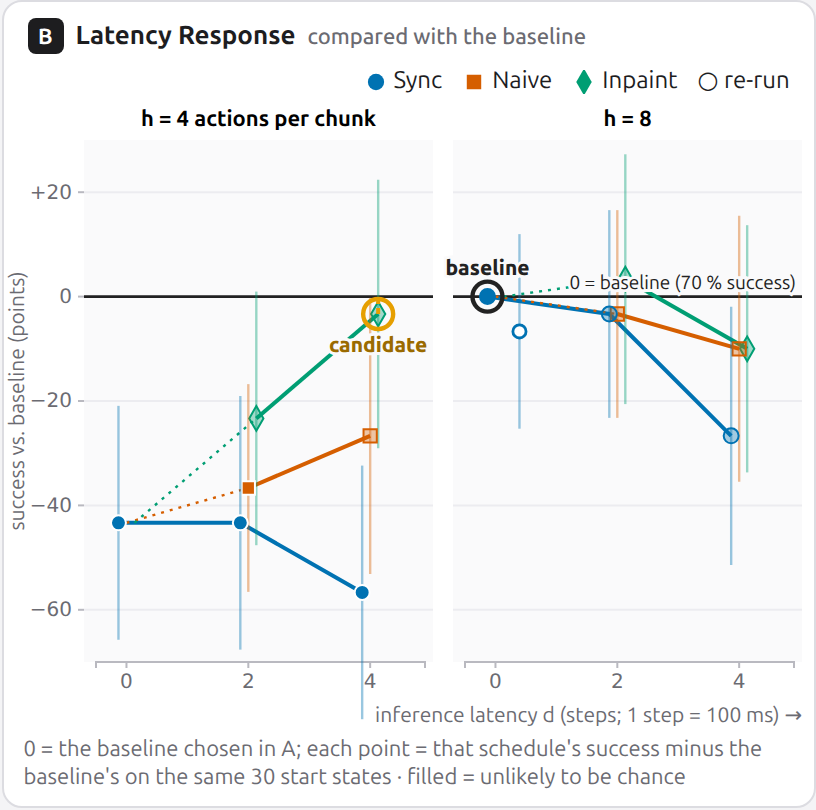
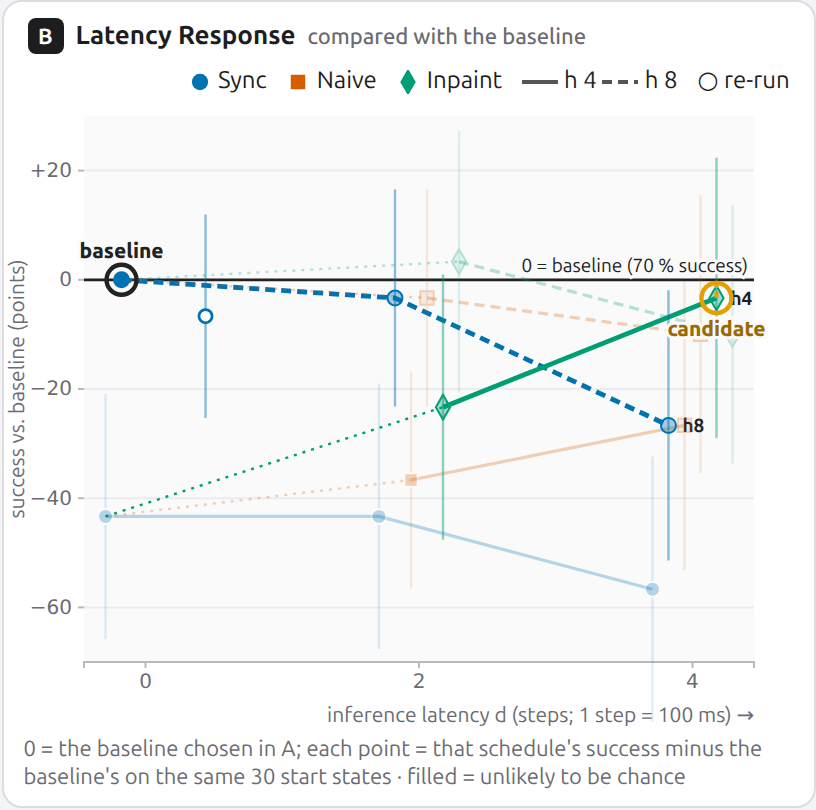
B: one plot for both horizons (solid = h 4, dashed = h 8) so baseline and candidate are always in the same frame; the series holding the pair stay strong, the others step back

diff --git a/src/js/views/response.js b/src/js/views/response.js
@@ -1,6 +1,6 @@
-// View B: latency response relative to the baseline chosen in A. One small multiple per execution
-// horizon h; within a panel, x = inference latency d (true spacing, 100 ms per step), one line per
-// strategy. y = each schedule's success minus the baseline's on the same start states (paired), so
+// View B: latency response relative to the baseline chosen in A, in one plot so that baseline and
+// candidate are always in the same frame: x = inference latency d (true spacing, 100 ms per step),
+// one line per strategy × horizon (hue + shape = strategy, solid = h 4, dashed = h 8). y = each schedule's success minus the baseline's on the same start states (paired), so
 // 0 is the baseline and choosing another baseline in A moves the zero line and re-tests every point.
 // The scale spans exactly 0–100 % success, so the curve shapes read as absolute latency response.
 // Whiskers = 95 % interval of the paired difference; filled = unlikely to be chance (exact McNemar).
@@ -10,7 +10,6 @@ import { COLOR, STRAT_COLOR, STRAT_SYMBOL, fmtMetric, showTip, hideTip, size } f
 import { flips } from "./pairs.js";
 
 let root, svg, noteSel, hoverStrat = null;
-const DODGE = { sync: -4, naive: 0, inpaint: 4 };
 // what each strategy does while the policy computes the next chunk (legend hover)
 const STRAT_DEF = {
   sync: "waits (robot idle) until the new chunk is ready",
@@ -29,6 +28,8 @@ export function initResponse() {
       .attr("transform", "translate(6,6)").attr("d", d3.symbol(STRAT_SYMBOL[s], 52)()).attr("fill", STRAT_COLOR[s]);
     it.append("span").text({ sync: "Sync", naive: "Naive", inpaint: "Inpaint" }[s]);
   }
+  lg.append("span").attr("class", "li").attr("title", "execution horizon h: how many actions of each chunk are executed before switching to the next chunk")
+    .html('<svg width="18" height="8"><line x1="0" x2="18" y1="4" y2="4" stroke="#555" stroke-width="2"/></svg>h 4 <svg width="18" height="8"><line x1="0" x2="18" y1="4" y2="4" stroke="#555" stroke-width="2" stroke-dasharray="5 3"/></svg>h 8');
   lg.append("span").attr("class", "li muted").attr("title", "the same schedule (Sync d0 h8) run a second time: how much success changes by chance alone").html("○ re-run");
   root = d3.select("#response");
   svg = root.append("svg");
@@ -53,6 +54,12 @@ function points() {
   return out;
 }
 
+// one plot for both horizons, so baseline and candidate are always in the same frame:
+// hue + shape = strategy, solid = h 4, dashed = h 8; points of one latency are dodged side by side
+const DODGE = { sync4: -20, sync8: -12, naive4: -4, naive8: 4, inpaint4: 12, inpaint8: 20 };
+const DASH = { 4: null, 8: "5 3" };
+const key = (p) => `${p.strat}${p.h}`;
+
 function render() {
   const n = state.brushed ? state.brushed.size : DATA.seeds.length;
   const { w, h } = size(root.node());
@@ -60,103 +67,95 @@ function render() {
   const pts = points();
   const base = aggregate(state.ref, "success_rate", state.brushed)?.v ?? 0;
   noteSel.html(`0 = the baseline chosen in A; each point = that schedule's success minus the baseline's on the same ${state.brushed ? `<b>${n} start states selected in C</b> (Esc clears)` : `${n} start states`} · filled = unlikely to be chance`);
-  const m = { l: 40, r: 6, t: 22, b: 34 }, gap = 10;
-  const pw = (w - m.l - m.r - gap * (HORIZONS.length - 1)) / HORIZONS.length;
-  const x = d3.scaleLinear().domain([-0.5, LATENCIES[LATENCIES.length - 1] + 0.9]).range([6, pw - 4]);
+  const m = { l: 40, r: 30, t: 10, b: 34 };
+  const x = d3.scaleLinear().domain([-0.45, LATENCIES[LATENCIES.length - 1] + 0.45]).range([m.l, w - m.r]);
   // the scale covers exactly 0 … 100 % success, shifted so that the baseline sits at 0
   const y = d3.scaleLinear().domain([-base, 1 - base]).range([h - m.b, m.t]);
   const ticks = d3.range(-10, 11).map((k) => k * 0.2).filter((v) => v >= -base - 1e-9 && v <= 1 - base + 1e-9);
 
+  svg.selectAll("rect.pbg").data([0]).join("rect").attr("class", "pbg").attr("x", m.l).attr("y", m.t)
+    .attr("width", w - m.l - m.r).attr("height", h - m.t - m.b).attr("fill", "#fafafb");
+  svg.selectAll("g.grid").data([0]).join("g").attr("class", "grid gridline").attr("transform", `translate(${m.l},0)`)
+    .call(d3.axisLeft(y).tickValues(ticks).tickSize(-(w - m.l - m.r)).tickFormat("")).call((q) => q.select(".domain").remove());
   svg.selectAll("g.yax").data([0]).join("g").attr("class", "axis yax").attr("transform", `translate(${m.l},0)`)
     .call(d3.axisLeft(y).tickValues(ticks).tickSize(3).tickFormat((v) => (Math.abs(v) < 1e-9 ? "0" : pts100(v))))
     .call((g) => g.select(".domain").remove());
   svg.selectAll("text.yt").data([0]).join("text").attr("class", "axis-title yt")
     .attr("transform", `translate(10,${(m.t + h - m.b) / 2}) rotate(-90)`).attr("text-anchor", "middle")
     .text("success vs. baseline (points)");
+  svg.selectAll("g.xax").data([0]).join("g").attr("class", "axis xax").attr("transform", `translate(0,${h - m.b})`)
+    .call(d3.axisBottom(x).tickValues(LATENCIES).tickSize(3).tickFormat((d) => d)).call((q) => q.select(".domain").attr("stroke", "#c9c9cf"));
+  svg.selectAll("line.zero").data([0]).join("line").attr("class", "zero").attr("x1", m.l).attr("x2", w - m.r)
+    .attr("y1", y(0)).attr("y2", y(0)).attr("stroke", COLOR.ref).attr("stroke-width", 1.4);
+  for (const c of ["lines", "marks", "rings"]) svg.selectAll(`g.${c}`).data([0]).join("g").attr("class", c);
 
-  const panels = svg.selectAll("g.rp").data(HORIZONS, (d) => d).join((en) => {
-    const g = en.append("g").attr("class", "rp");
-    g.append("rect").attr("class", "pbg");
-    g.append("g").attr("class", "grid gridline");
-    g.append("line").attr("class", "zero");
-    g.append("g").attr("class", "axis xax");
-    g.append("text").attr("class", "pt");
-    g.append("g").attr("class", "lines");
-    g.append("g").attr("class", "marks");
-    g.append("g").attr("class", "rings");
-    return g;
-  }).attr("transform", (d, i) => `translate(${m.l + i * (pw + gap)},0)`);
+  // the series that hold the baseline or the candidate stay strong, the others step back
+  const sched = (id) => DATA.schedById.get(id);
+  const pairKeys = new Set([state.ref, state.cand].map((id) => sched(id)).filter((q) => q && !q.replicate).map((q) => `${q.strategy}${q.horizon}`));
+  const op = (strat, k) => (hoverStrat ? (hoverStrat === strat ? 1 : 0.12) : pairKeys.has(k) ? 1 : 0.28);
+  const lx = (p) => x(p.d) + DODGE[key(p)];
+  const px = (p) => (p.rep ? x(p.d) + 30 : lx(p));
 
-  panels.each(function (hz, i) {
-    const g = d3.select(this);
-    g.select(".pbg").attr("x", 0).attr("y", m.t).attr("width", pw).attr("height", h - m.t - m.b).attr("fill", "#fafafb");
-    g.select(".grid").call(d3.axisLeft(y).tickValues(ticks).tickSize(-pw).tickFormat("")).call((q) => q.select(".domain").remove());
-    g.select(".zero").attr("x1", 0).attr("x2", pw).attr("y1", y(0)).attr("y2", y(0)).attr("stroke", COLOR.ref).attr("stroke-width", 1.4);
-    g.select(".xax").attr("transform", `translate(0,${h - m.b})`)
-      .call(d3.axisBottom(x).tickValues(LATENCIES).tickSize(3).tickFormat((d) => d)).call((q) => q.select(".domain").attr("stroke", "#c9c9cf"));
-    g.select(".pt").attr("x", pw / 2).attr("y", m.t - 7).attr("text-anchor", "middle").attr("font-size", 11).attr("font-weight", 700)
-      .text(`h = ${hz}${i === 0 ? " actions per chunk" : ""}`)
-      .call((q) => q.selectAll("title").data([0]).join("title")
-        .text(`execution horizon h = ${hz}: the robot executes ${hz} actions of each chunk, then switches to the next chunk`));
+  const main = pts.filter((p) => !p.rep);
+  const lines = [];
+  for (const s of STRATEGIES) for (const hz of HORIZONS) {
+    const ps = main.filter((p) => p.strat === s && p.h === hz).sort((a, b) => a.d - b.d);
+    if (!ps.length) continue;
+    const zero = main.find((p) => p.strat === "sync" && p.d === 0 && p.h === hz);
+    lines.push({ k: `${s}${hz}`, s, hz, ps, lead: s !== "sync" && zero ? [zero, ps[0]] : null });
+  }
+  const line = d3.line().x(lx).y((p) => y(p.v));
+  svg.select("g.lines").selectAll("g.sl").data(lines, (l) => l.k).join((en) => {
+    const q = en.append("g").attr("class", "sl"); q.append("path").attr("class", "lead"); q.append("path").attr("class", "main"); q.append("text").attr("class", "end"); return q;
+  }).attr("opacity", (l) => op(l.s, l.k))
+    // async with d = 0 is identical to sync d = 0, so async lines start from that shared point (dotted)
+    .call((q) => q.select(".lead").attr("d", (l) => (l.lead ? `M${lx(l.lead[0])},${y(l.lead[0].v)}L${lx(l.lead[1])},${y(l.lead[1].v)}` : null))
+      .attr("fill", "none").attr("stroke", (l) => STRAT_COLOR[l.s]).attr("stroke-width", 1.2).attr("stroke-dasharray", "1.5 3"))
+    .call((q) => q.select(".main").attr("d", (l) => line(l.ps)).attr("fill", "none").attr("stroke", (l) => STRAT_COLOR[l.s])
+      .attr("stroke-width", (l) => (pairKeys.has(l.k) ? 2.4 : 1.6)).attr("stroke-dasharray", (l) => DASH[l.hz]))
+    // the strong series say which horizon they are at their right end
+    .call((q) => q.select(".end").attr("x", (l) => lx(l.ps[l.ps.length - 1]) + 7).attr("y", (l) => y(l.ps[l.ps.length - 1].v) + 3.5)
+      .attr("font-size", 9.5).attr("font-weight", 700).attr("fill", COLOR.ink).attr("stroke", "#fafafb").attr("stroke-width", 3).attr("paint-order", "stroke")
+      .text((l) => (pairKeys.has(l.k) ? `h${l.hz}` : "")));
 
-    const mine = pts.filter((p) => p.h === hz && !p.rep);
-    const zero = pts.find((p) => p.strat === "sync" && p.d === 0 && p.h === hz && !p.rep);
-    const lines = STRATEGIES.map((s) => {
-      const ps = mine.filter((p) => p.strat === s).sort((a, b) => a.d - b.d);
-      return { s, ps, lead: s !== "sync" && zero && ps.length ? [zero, ps[0]] : null };
-    }).filter((l) => l.ps.length);
-    const lx = (p, s) => x(p.d) + DODGE[s ?? p.strat];
-    const px = (p) => (p.rep ? x(p.d) + 12 : lx(p));
-    const op = (s) => (hoverStrat && hoverStrat !== s ? 0.15 : 1);
-    const line = d3.line().x((p) => lx(p)).y((p) => y(p.v));
-    g.select(".lines").selectAll("g.sl").data(lines, (l) => l.s).join((en) => {
-      const q = en.append("g").attr("class", "sl"); q.append("path").attr("class", "lead"); q.append("path").attr("class", "main"); return q;
-    }).attr("opacity", (l) => op(l.s))
-      // async with d = 0 is identical to sync d = 0, so async lines start from that shared point (dotted)
-      .call((q) => q.select(".lead").attr("d", (l) => (l.lead ? `M${lx(l.lead[0], l.s)},${y(l.lead[0].v)}L${lx(l.lead[1])},${y(l.lead[1].v)}` : null))
-        .attr("fill", "none").attr("stroke", (l) => STRAT_COLOR[l.s]).attr("stroke-width", 1.2).attr("stroke-dasharray", "1.5 3"))
-      .call((q) => q.select(".main").attr("d", (l) => line(l.ps)).attr("fill", "none").attr("stroke", (l) => STRAT_COLOR[l.s]).attr("stroke-width", 2));
+  const mk = svg.select("g.marks").selectAll("g.pm").data(pts, (p) => p.id).join((en) => {
+    const q = en.append("g").attr("class", "pm").style("cursor", "pointer");
+    q.append("line").attr("class", "ci"); q.append("path").attr("class", "sym"); q.append("circle").attr("class", "hit");
+    return q;
+  }).attr("opacity", (p) => op(p.strat, key(p))).attr("transform", (p) => `translate(${px(p)},0)`);
+  mk.select(".ci").attr("y1", (p) => y(p.lo)).attr("y2", (p) => y(p.hi)).attr("stroke", (p) => STRAT_COLOR[p.strat])
+    .attr("stroke-width", 1.2).attr("stroke-opacity", 0.45);
+  mk.select(".sym").attr("transform", (p) => `translate(0,${y(p.v)})`)
+    .attr("d", (p) => d3.symbol(STRAT_SYMBOL[p.strat], p.rep ? 34 : 44)())
+    .attr("fill", (p) => (p.rep ? "#fff" : STRAT_COLOR[p.strat]))
+    .attr("fill-opacity", (p) => (p.rep || p.sig || p.id === state.ref ? 1 : 0.35))
+    .attr("stroke", (p) => (p.rep ? STRAT_COLOR[p.strat] : p.sig ? "#fff" : STRAT_COLOR[p.strat]))
+    .attr("stroke-width", (p) => (p.rep ? 1.4 : 1));
+  mk.select(".hit").attr("cy", (p) => y(p.v)).attr("r", 6).attr("fill", "transparent");
+  mk.on("click", (ev, p) => (ev.shiftKey ? update({ ref: p.id }) : update({ cand: p.id })))
+    .on("mouseenter", (ev, p) => { hoverStrat = p.strat; render(); })
+    .on("mousemove", (ev, p) => showTip(ev, tipHtml(p)))
+    .on("mouseleave", () => { hideTip(); hoverStrat = null; render(); });
 
-    const all = pts.filter((p) => p.h === hz);
-    const mk = g.select(".marks").selectAll("g.pm").data(all, (p) => p.id).join((en) => {
-      const q = en.append("g").attr("class", "pm").style("cursor", "pointer");
-      q.append("line").attr("class", "ci"); q.append("path").attr("class", "sym"); q.append("circle").attr("class", "hit");
-      return q;
-    }).attr("opacity", (p) => op(p.strat)).attr("transform", (p) => `translate(${px(p)},0)`);
-    mk.select(".ci").attr("y1", (p) => y(p.lo)).attr("y2", (p) => y(p.hi)).attr("stroke", (p) => STRAT_COLOR[p.strat])
-      .attr("stroke-width", 1.2).attr("stroke-opacity", 0.4);
-    mk.select(".sym").attr("transform", (p) => `translate(0,${y(p.v)})`)
-      .attr("d", (p) => d3.symbol(STRAT_SYMBOL[p.strat], p.rep ? 34 : 44)())
-      .attr("fill", (p) => (p.rep ? "#fff" : STRAT_COLOR[p.strat]))
-      .attr("fill-opacity", (p) => (p.rep || p.sig || p.id === state.ref ? 1 : 0.35))
-      .attr("stroke", (p) => (p.rep ? STRAT_COLOR[p.strat] : p.sig ? "#fff" : STRAT_COLOR[p.strat]))
-      .attr("stroke-width", (p) => (p.rep ? 1.4 : 1));
-    mk.select(".hit").attr("cy", (p) => y(p.v)).attr("r", 7).attr("fill", "transparent");
-    mk.on("click", (ev, p) => (ev.shiftKey ? update({ ref: p.id }) : update({ cand: p.id })))
-      .on("mouseenter", (ev, p) => { hoverStrat = p.strat; render(); })
-      .on("mousemove", (ev, p) => showTip(ev, tipHtml(p)))
-      .on("mouseleave", () => { hideTip(); hoverStrat = null; render(); });
-
-    // baseline (on the zero line) and candidate: rings with a word, and the candidate's distance
-    // to the zero line, which is the value of the current cell in A
-    const rings = [{ id: state.ref, k: "ref", t: "baseline", col: COLOR.ref }, { id: state.cand, k: "cand", t: "candidate", col: COLOR.cand }]
-      .map((r) => ({ ...r, p: all.find((p) => p.id === r.id) })).filter((r) => r.p);
-    const rg = g.select(".rings").selectAll("g.rg").data(rings, (r) => r.t).join((en) => {
-      const q = en.append("g").attr("class", "rg").attr("pointer-events", "none");
-      q.append("line"); q.append("circle"); q.append("text").attr("class", "who"); q.append("text").attr("class", "dv"); return q;
-    }).attr("transform", (r) => `translate(${px(r.p)},${y(r.p.v)})`);
-    rg.select("circle").attr("r", 7.5).attr("fill", "none").attr("stroke", (r) => r.col).attr("stroke-width", 2.2);
-    rg.select("line").attr("y1", 0).attr("y2", (r) => (r.k === "cand" ? y(0) - y(r.p.v) : 0))
-      .attr("stroke", COLOR.cand).attr("stroke-width", 2).attr("stroke-dasharray", "3 2");
-    // word above the ring, unless that would run into the panel title or the candidate sits below 0
-    const above = (r) => (r.k === "ref" || r.p.v >= 0) && y(r.p.v) - 22 > m.t;
-    rg.select("text.who").attr("y", (r) => (above(r) ? -11 : 19)).attr("text-anchor", "middle").attr("font-size", 10.5)
-      .attr("font-weight", 800).attr("fill", (r) => (r.k === "cand" ? "#9a6a00" : COLOR.ref))
-      .attr("stroke", "#fafafb").attr("stroke-width", 3).attr("paint-order", "stroke").text((r) => r.t);
-    rg.select("text.dv").attr("x", 10).attr("y", (r) => (y(0) - y(r.p.v)) / 2 + 4).attr("font-size", 10.5).attr("font-weight", 800)
-      .attr("fill", "#9a6a00").attr("stroke", "#fafafb").attr("stroke-width", 3).attr("paint-order", "stroke")
-      .text((r) => (r.k === "cand" && Math.abs(r.p.v) > 0.04 ? pts100(r.p.v) : ""));
-  });
+  // baseline (on the zero line) and candidate: rings with a word, and the candidate's distance
+  // to the zero line, which is the value of the current cell in A
+  const rings = [{ id: state.ref, k: "ref", t: "baseline", col: COLOR.ref }, { id: state.cand, k: "cand", t: "candidate", col: COLOR.cand }]
+    .map((r) => ({ ...r, p: pts.find((p) => p.id === r.id) })).filter((r) => r.p);
+  const rg = svg.select("g.rings").selectAll("g.rg").data(rings, (r) => r.t).join((en) => {
+    const q = en.append("g").attr("class", "rg").attr("pointer-events", "none");
+    q.append("line"); q.append("circle"); q.append("text").attr("class", "who"); q.append("text").attr("class", "dv"); return q;
+  }).attr("transform", (r) => `translate(${px(r.p)},${y(r.p.v)})`);
+  rg.select("circle").attr("r", 7.5).attr("fill", "none").attr("stroke", (r) => r.col).attr("stroke-width", 2.2);
+  rg.select("line").attr("y1", 0).attr("y2", (r) => (r.k === "cand" ? y(0) - y(r.p.v) : 0))
+    .attr("stroke", COLOR.cand).attr("stroke-width", 2).attr("stroke-dasharray", "3 2");
+  // word above the ring (below when the candidate is under 0 or the ring is at the top)
+  const above = (r) => (r.k === "ref" || r.p.v >= 0) && y(r.p.v) - 22 > m.t;
+  rg.select("text.who").attr("y", (r) => (above(r) ? -11 : 19)).attr("text-anchor", "middle").attr("font-size", 10.5)
+    .attr("font-weight", 800).attr("fill", (r) => (r.k === "cand" ? "#9a6a00" : COLOR.ref))
+    .attr("stroke", "#fafafb").attr("stroke-width", 3).attr("paint-order", "stroke").text((r) => r.t);
+  rg.select("text.dv").attr("x", -10).attr("text-anchor", "end").attr("y", (r) => (y(0) - y(r.p.v)) / 2 + 4).attr("font-size", 10.5).attr("font-weight", 800)
+    .attr("fill", "#9a6a00").attr("stroke", "#fafafb").attr("stroke-width", 3).attr("paint-order", "stroke")
+    .text((r) => (r.k === "cand" && Math.abs(r.p.v) > 0.04 ? pts100(r.p.v) : ""));
 
   svg.selectAll("text.zl").data([0]).join("text").attr("class", "zl").attr("x", w - m.r - 3).attr("text-anchor", "end").attr("y", y(0) + (base > 0.85 ? 12 : -4))
     .attr("font-size", 9.5).attr("fill", COLOR.ref).attr("stroke", "#fafafb").attr("stroke-width", 3).attr("paint-order", "stroke")
